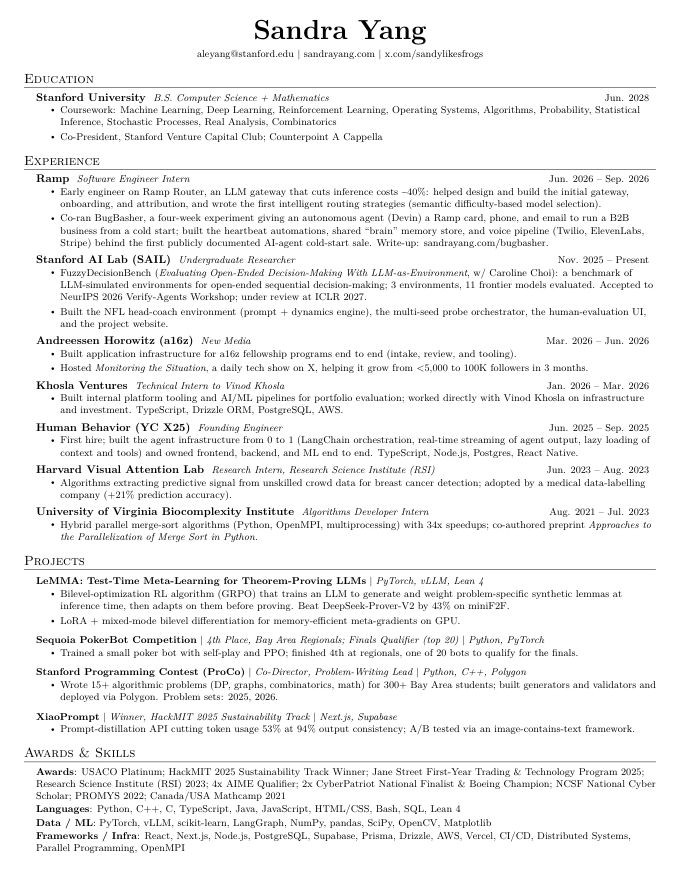
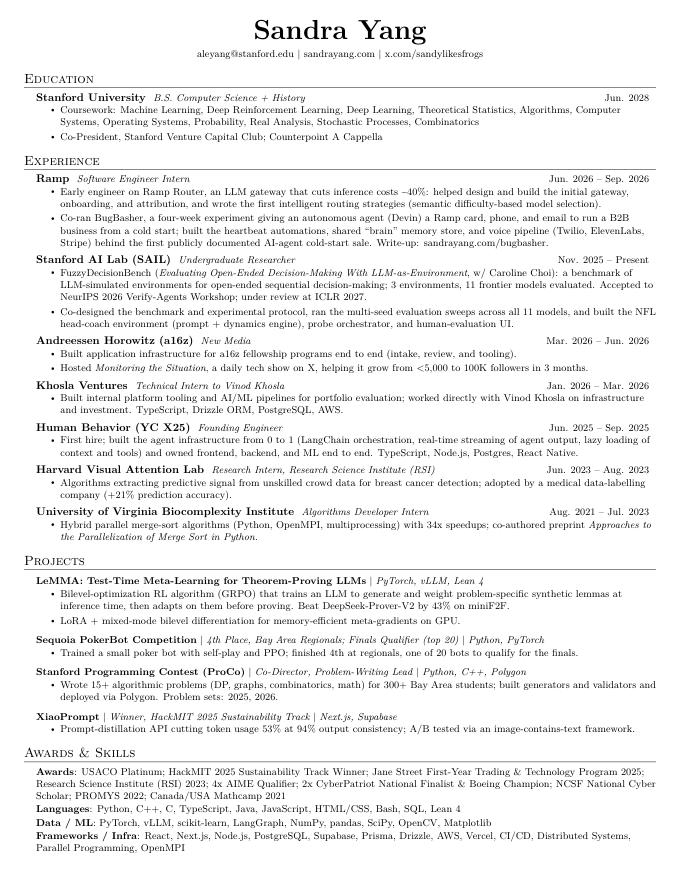
Resume: CS + History, coursework from transcript, SAIL research bullet

Changed region(s): [[0.0926, 0.092, 0.9265, 0.1534], [0.0926, 0.3375, 0.9574, 0.3682]]

diff --git a/resume/resume.tex b/resume/resume.tex
@@ -70,9 +70,9 @@
 \section{Education}
   \resumeSubHeadingListStart
     \resumeSubheading
-      {Stanford University}{B.S. Computer Science + Mathematics}{Jun. 2028}
+      {Stanford University}{B.S. Computer Science + History}{Jun. 2028}
       \resumeItemListStart
-        \resumeItem{Coursework: Machine Learning, Deep Learning, Reinforcement Learning, Operating Systems, Algorithms, Probability, Statistical Inference, Stochastic Processes, Real Analysis, Combinatorics}
+        \resumeItem{Coursework: Machine Learning, Deep Reinforcement Learning, Deep Learning, Theoretical Statistics, Algorithms, Computer Systems, Operating Systems, Probability, Real Analysis, Stochastic Processes, Combinatorics}
         \resumeItem{Co-President, \href{https://www.stanfordvc.org}{Stanford Venture Capital Club}; Counterpoint A Cappella}
       \resumeItemListEnd
   \resumeSubHeadingListEnd
@@ -91,7 +91,7 @@
       {Stanford AI Lab (SAIL)}{Undergraduate Researcher}{Nov. 2025 -- Present}
       \resumeItemListStart
         \resumeItem{FuzzyDecisionBench (\textit{Evaluating Open-Ended Decision-Making With LLM-as-Environment}, w/ Caroline Choi): a benchmark of LLM-simulated environments for open-ended sequential decision-making; 3 environments, 11 frontier models evaluated. Accepted to NeurIPS 2026 Verify-Agents Workshop; under review at ICLR 2027.}
-        \resumeItem{Built the NFL head-coach environment (prompt + dynamics engine), the multi-seed probe orchestrator, the human-evaluation UI, and the project website.}
+        \resumeItem{Co-designed the benchmark and experimental protocol, ran the multi-seed evaluation sweeps across all 11 models, and built the NFL head-coach environment (prompt + dynamics engine), probe orchestrator, and human-evaluation UI.}
       \resumeItemListEnd
 
     \resumeSubheading
